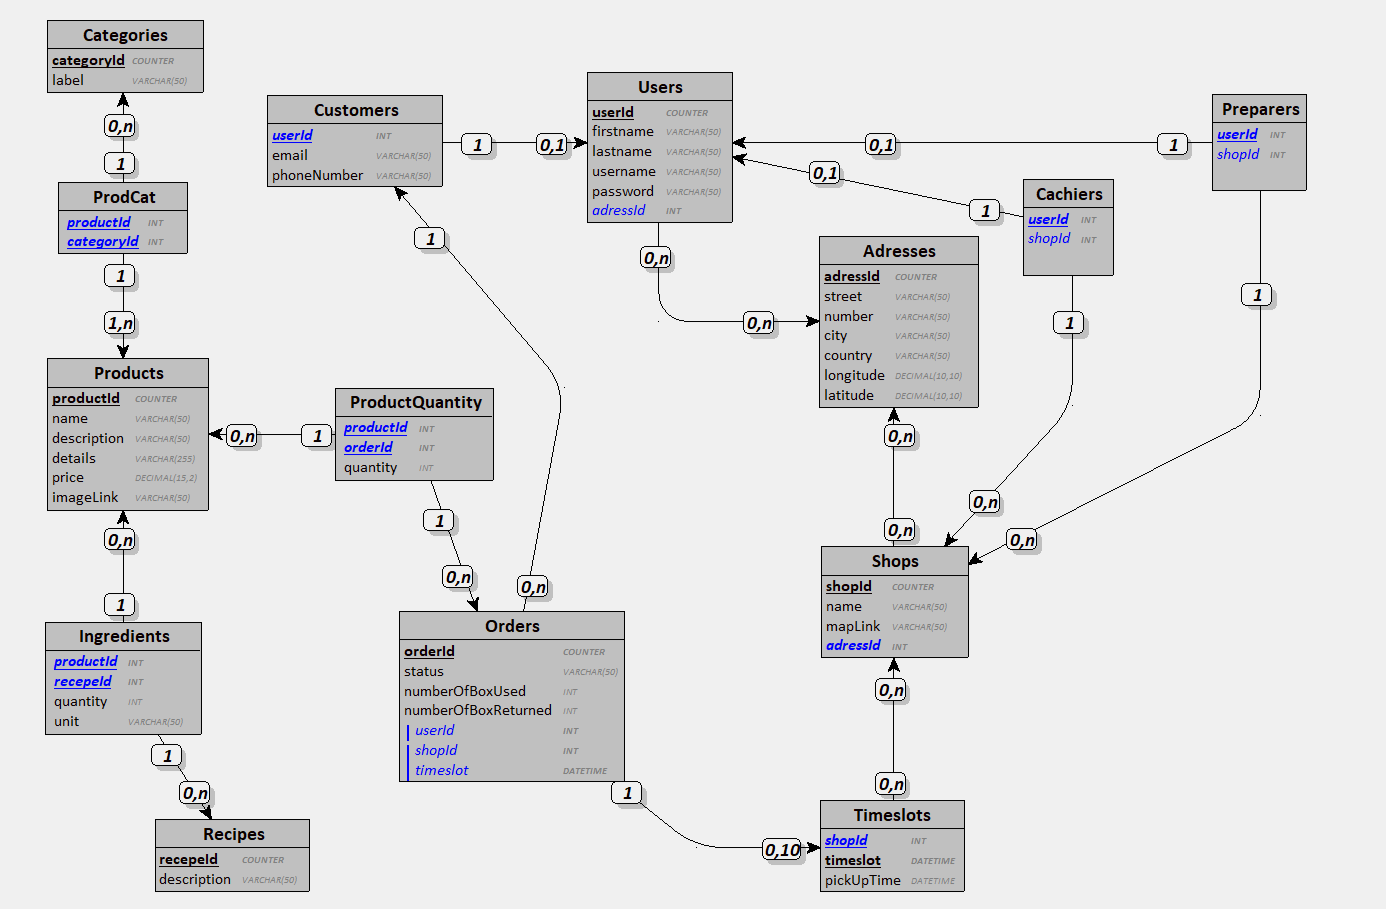
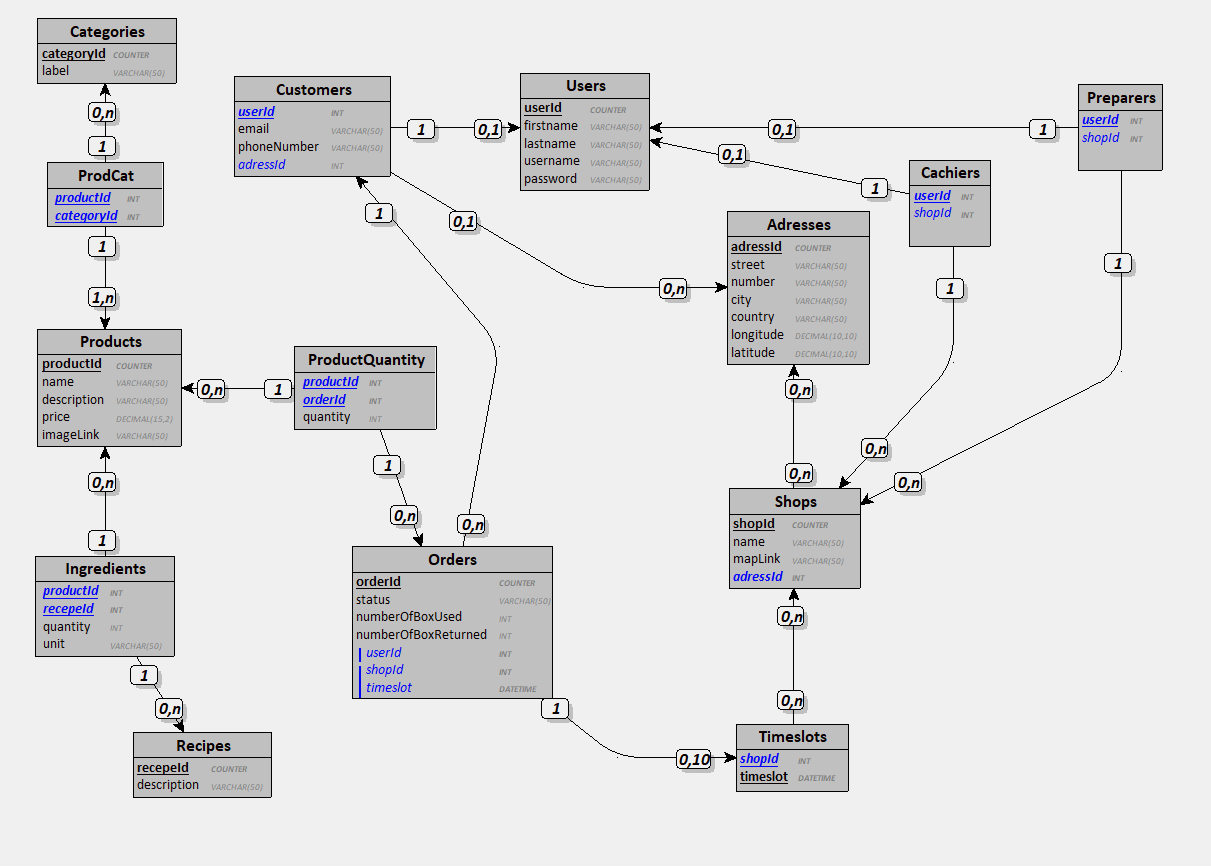
Payment error

diff --git a/ClickCollect_Antoine_Nolan_2026/Controllers/CashierController.cs b/ClickCollect_Antoine_Nolan_2026/Controllers/CashierController.cs
@@ -1,5 +1,6 @@
 using ClickCollect_Antoine_Nolan_2026.DAL;
 using ClickCollect_Antoine_Nolan_2026.Models;
+using ClickCollect_Antoine_Nolan_2026.ViewModel;
 using Microsoft.AspNetCore.Mvc;
 using Microsoft.AspNetCore.Mvc.Filters;
 using System.Runtime.InteropServices;
@@ -10,11 +11,13 @@ namespace ClickCollect_Antoine_Nolan_2026.Controllers
     {
         private readonly IUserDAL userDAL;
         private readonly IShopDAL shopDAL;
+        private readonly IOrderDAL orderDAL;
 
-        public CashierController(IUserDAL userDAL, IShopDAL shopDAL)
+        public CashierController(IUserDAL userDAL, IShopDAL shopDAL, IOrderDAL orderDAL)
         {
             this.userDAL = userDAL;
             this.shopDAL = shopDAL;
+            this.orderDAL = orderDAL;
         }
 
         public override void OnActionExecuting(ActionExecutingContext context)
@@ -23,6 +26,25 @@ namespace ClickCollect_Antoine_Nolan_2026.Controllers
 
             // If the user IS NOT a cashier, he will be redirected to the index.
             RestrictToRole(context, "Cashier");
+        }
+
+        public async Task<IActionResult> Payment(int id)
+        {
+            Console.WriteLine("????????");
+            if (HttpContext.Session.GetInt32("UserId") == null)
+            {
+                TempData["Error"] = "Be connected !";
+                return RedirectToAction("Login", "User");
+            }
+
+            Order? order = await Order.GetOrderDetailsAsync(orderDAL, id);
+            if (order == null || order.Status != OrderStatusEnum.Ready)
+            {
+                TempData["Error"] = "This order doesn't exist or isn't ready !";
+                return RedirectToAction("Index", "Cashier");
+            }
+
+            return View();
         }
 
         public async Task<IActionResult> Index()
@@ -48,9 +70,34 @@ namespace ClickCollect_Antoine_Nolan_2026.Controllers
                 return RedirectToAction("Index", "Home");
             }
 
+            List<Order> oldOrders = new List<Order>();
+            foreach (Timeslot ts in theShop.Timeslots)
+            {
+                if (ts.StartTime < DateTime.Now)
+                {
+                    foreach (Order o in ts.Orders)
+                    {
+                        if (o.Status == OrderStatusEnum.Ready)
+                            oldOrders.Add(o);
+                    }
+                }
+                else { break; }
+            }
+
+            Timeslot slot = theShop.Timeslots?.FirstOrDefault(t 
+                => t.StartTime == Timeslot.RoundDateTime(DateTime.Now)) ?? new Timeslot();
+
+            slot.Orders = slot.Orders.Where(o
+                => o.Status == OrderStatusEnum.Ready).ToList();
+
             cashier.ItsShop = theShop;
 
-            return View(cashier);
+            CashierViewModel vm = new CashierViewModel();
+            vm.Employee = cashier;
+            vm.OldOrders = oldOrders;
+            vm.Slot = slot;
+
+            return View(vm);
         }
     }
 }

diff --git a/ClickCollect_Antoine_Nolan_2026/Models/Order.cs b/ClickCollect_Antoine_Nolan_2026/Models/Order.cs
@@ -218,14 +218,23 @@ namespace ClickCollect_Antoine_Nolan_2026.Models
         public static async Task<List<Order>> GetOrdersByCustomerAsync(IOrderDAL orderDAL, int userId)
             => await orderDAL.GetOrdersByCustomerAsync(userId);
 
-        public async Task<bool> UpdateStatusAsync(IOrderDAL orderDAL, OrderStatusEnum newStatus, int numberOfBoxes)
+        public async Task<bool> UpdateStatusAsync(IOrderDAL orderDAL, OrderStatusEnum newStatus, int numberOfBoxes, int boxReturned=0)
         {
             if (numberOfBoxes < 0)
                 throw new ArgumentException("Number of boxes cannot be negative.");
-            this.status = newStatus;
-            this.numberOfBoxUsed = numberOfBoxes;
-            return await orderDAL.UpdateOrderStatusAsync(this.orderId, newStatus, numberOfBoxes);
+            Status = newStatus;
+            NumberOfBoxUsed = numberOfBoxes;
+            return await orderDAL.UpdateOrderStatusAsync(this.orderId, newStatus, numberOfBoxes, boxReturned);
         }
+
+        public static async Task<bool> UpdateOrderStatusAsync(IOrderDAL orderDAL, int orderId, OrderStatusEnum newStatus, int numberOfBoxes, int boxReturned = 0)
+            => await orderDAL.UpdateOrderStatusAsync(orderId, newStatus, numberOfBoxes, boxReturned);
+
+        public static async Task<Order?> GetOrderDetailsAsync(IOrderDAL orderDAL, int orderId)
+            => await orderDAL.GetOrderDetailsAsync(orderId);
+
+        public static async Task<List<Order>> GetOrdersToPrepareAsync(IOrderDAL orderDAL, int shopId)
+            => await orderDAL.GetOrdersToPrepareAsync(shopId);
 
         public override string ToString()
             => $"Order {orderId} - {status} - {slot?.StartTime:dd/MM/yyyy} - {customer?.Username}";

diff --git a/ClickCollect_Antoine_Nolan_2026/Controllers/PreparerController.cs b/ClickCollect_Antoine_Nolan_2026/Controllers/PreparerController.cs
@@ -7,11 +7,11 @@ namespace ClickCollect_Antoine_Nolan_2026.Controllers
 {
     public class PreparerController : BaseController
     {
-        private readonly IOrderDAL _orderDAL;
+        private readonly IOrderDAL orderDAL;
 
         public PreparerController(IOrderDAL orderDAL)
         {
-            _orderDAL = orderDAL;
+            this.orderDAL = orderDAL;
         }
 
         public override void OnActionExecuting(ActionExecutingContext context)
@@ -26,7 +26,7 @@ namespace ClickCollect_Antoine_Nolan_2026.Controllers
             {
                 int shopId = HttpContext.Session.GetInt32("ShopId") ?? 1;
 
-                List<Order> ordersToPrepare = await _orderDAL.GetOrdersToPrepareAsync(shopId);
+                List<Order> ordersToPrepare = await Order.GetOrdersToPrepareAsync(orderDAL, shopId);
 
                 return View(ordersToPrepare);
             }
@@ -42,7 +42,7 @@ namespace ClickCollect_Antoine_Nolan_2026.Controllers
         {
             try
             {
-                Order? order = await _orderDAL.GetOrderDetailsAsync(id);
+                Order? order = await Order.GetOrderDetailsAsync(orderDAL, id);
 
                 if(order == null)
                 {
@@ -64,7 +64,7 @@ namespace ClickCollect_Antoine_Nolan_2026.Controllers
         {
             try
             {
-                Order? order = await _orderDAL.GetOrderDetailsAsync(id);
+                Order? order = await Order.GetOrderDetailsAsync(orderDAL, id);
 
                 if (order == null)
                 {
@@ -91,11 +91,11 @@ namespace ClickCollect_Antoine_Nolan_2026.Controllers
                 if (numberOfBoxUsed < 1)
                 {
                     ViewData["Error"] = "You must use at least 1 box.";
-                    Order? orderError = await _orderDAL.GetOrderDetailsAsync(id);
+                    Order? orderError = await Order.GetOrderDetailsAsync(orderDAL, id);
                     return View(orderError);
                 }
 
-                await _orderDAL.UpdateOrderStatusAsync(id, OrderStatusEnum.Ready, numberOfBoxUsed);
+                await Order.UpdateOrderStatusAsync(orderDAL, id, OrderStatusEnum.Ready, numberOfBoxUsed, 0);
                 TempData["Success"] = "The order has been marked as ready.";
                 return RedirectToAction("Index");
             }

diff --git a/ClickCollect_Antoine_Nolan_2026/ViewModel/CashierViewModel.cs b/ClickCollect_Antoine_Nolan_2026/ViewModel/CashierViewModel.cs
@@ -1,0 +1,13 @@
+using ClickCollect_Antoine_Nolan_2026.Models;
+
+namespace ClickCollect_Antoine_Nolan_2026.ViewModel
+{
+    public class CashierViewModel
+    {
+        public CashierViewModel() { }
+
+        public List<Order> OldOrders { get; set; }
+        public Cashier Employee { get; set; }
+        public Timeslot Slot { get; set; }
+    }
+}

diff --git a/ClickCollect_Antoine_Nolan_2026/Controllers/CartController.cs b/ClickCollect_Antoine_Nolan_2026/Controllers/CartController.cs
@@ -141,7 +141,7 @@ namespace ClickCollect_Antoine_Nolan_2026.Controllers
                 return RedirectToAction("Login", "User");
 
             List<Shop>? shops = await Shop.GetShopsAsync(shopDAL);
-            if (shops == null)
+            if (shops == null || shops.Count() == 0)
             {
                 TempData["Error"] = "Error with shop selection";
                 return RedirectToAction("Index", "Home");
@@ -184,7 +184,7 @@ namespace ClickCollect_Antoine_Nolan_2026.Controllers
             ConfirmCartViewModel vm = new ConfirmCartViewModel();
             vm.Cart = GetCartFromSession();
             List<Shop>? shops = await Shop.GetShopsAndTimeslotsAsync(shopDAL);
-            if (shops == null)
+            if (shops == null || shops.Count() == 0)
             {
                 TempData["Error"] = "Error with shop selection";
                 return RedirectToAction("Index", "Home");
@@ -225,7 +225,7 @@ namespace ClickCollect_Antoine_Nolan_2026.Controllers
             }
 
             List<Shop>? shops = await Shop.GetShopsAndTimeslotsAsync(shopDAL);
-            if(shops == null)
+            if(shops == null || shops.Count() == 0)
             {
                 TempData["Error"] = "Error with shop selection";
                 return RedirectToAction("Index", "Home");
@@ -239,7 +239,7 @@ namespace ClickCollect_Antoine_Nolan_2026.Controllers
             }
 
             Timeslot? thisTimeslot = thisShop.Timeslots.FirstOrDefault(t => t.StartTime == timeslot);
-            if (thisTimeslot == null && thisTimeslot.NumberOfOrders > 9)
+            if (thisTimeslot == null || thisTimeslot.NumberOfOrders > 9)
             {
                 TempData["Error"] = "Take another timeslot";
                 return RedirectToAction("Confirm", new { shopId = shopId });

diff --git a/ClickCollect_Antoine_Nolan_2026/DAL/ShopDAL.cs b/ClickCollect_Antoine_Nolan_2026/DAL/ShopDAL.cs
@@ -30,14 +30,14 @@ namespace ClickCollect_Antoine_Nolan_2026.DAL
                             a.adressId, a.street, a.number, a.city, a.country, a.longitude, a.latitude,
                             t.timeslot,
                             COUNT(o.orderId) as ordersPerTimeslot
-                        FROM Timeslots t
-                        INNER JOIN Shops s ON t.shopId = s.shopId
+                        FROM Shops s
                         INNER JOIN Adresses a ON a.adressId = s.adressId
+                        LEFT JOIN Timeslots t ON t.shopId = s.shopId
                         LEFT JOIN Orders o ON o.timeslot = t.timeslot AND o.shopId = t.shopId
                         GROUP BY s.shopId, s.name, s.maplink, 
                                  a.adressId, a.street, a.number, a.city, a.country, a.longitude, a.latitude,
                                  t.timeslot
-                        ORDER BY s.shopId;", co);
+                        ORDER BY s.shopId", co);
 
                     await co.OpenAsync();
 

diff --git a/ClickCollect_Antoine_Nolan_2026/DAL/OrderDAL.cs b/ClickCollect_Antoine_Nolan_2026/DAL/OrderDAL.cs
@@ -228,17 +228,18 @@ namespace ClickCollect_Antoine_Nolan_2026.DAL
             return order;
         }
 
-        public async Task<bool> UpdateOrderStatusAsync(int orderId, OrderStatusEnum status, int numberOfBoxUsed)
+        public async Task<bool> UpdateOrderStatusAsync(int orderId, OrderStatusEnum status, int numberOfBoxUsed, int boxReturned=0)
         {
             using (SqlConnection co = new SqlConnection(connectionString))
             {
                 SqlCommand cmd = new SqlCommand(
                     @"UPDATE Orders 
-              SET status = @Status, numberOfBoxUsed = @NumberOfBoxUsed
+              SET status = @Status, numberOfBoxUsed = @NumberOfBoxUsed, numberOfBoxReturned = @numberOfBoxReturned
               WHERE orderId = @OrderId", co);
 
                 cmd.Parameters.AddWithValue("@Status", status.ToString());
                 cmd.Parameters.AddWithValue("@NumberOfBoxUsed", numberOfBoxUsed);
+                cmd.Parameters.AddWithValue("@NumberOfBoxReturned", boxReturned);
                 cmd.Parameters.AddWithValue("@OrderId", orderId);
 
                 await co.OpenAsync();

diff --git a/ClickCollect_Antoine_Nolan_2026/Models/Timeslot.cs b/ClickCollect_Antoine_Nolan_2026/Models/Timeslot.cs
@@ -74,5 +74,8 @@ namespace ClickCollect_Antoine_Nolan_2026.Models
         {
             return ToString().GetHashCode();
         }
+
+        public static DateTime RoundDateTime(DateTime date)
+            => new DateTime(date.Year, date.Month, date.Day, date.Hour, 0, 0);
     }
 }

diff --git a/ClickCollect_Antoine_Nolan_2026/DAL/IOrderDAL.cs b/ClickCollect_Antoine_Nolan_2026/DAL/IOrderDAL.cs
@@ -13,7 +13,7 @@ namespace ClickCollect_Antoine_Nolan_2026.DAL
 
         public Task<Order?> GetOrderDetailsAsync(int orderId);
 
-        public Task<bool> UpdateOrderStatusAsync(int orderId, OrderStatusEnum status, int numberOfBoxUsed);
+        public Task<bool> UpdateOrderStatusAsync(int orderId, OrderStatusEnum status, int numberOfBoxUsed, int boxReturned);
 
         // This method will be use, so I can get the orders of each customers, and display them.
         public Task<List<Order>> GetOrdersByCustomerAsync(int userId);